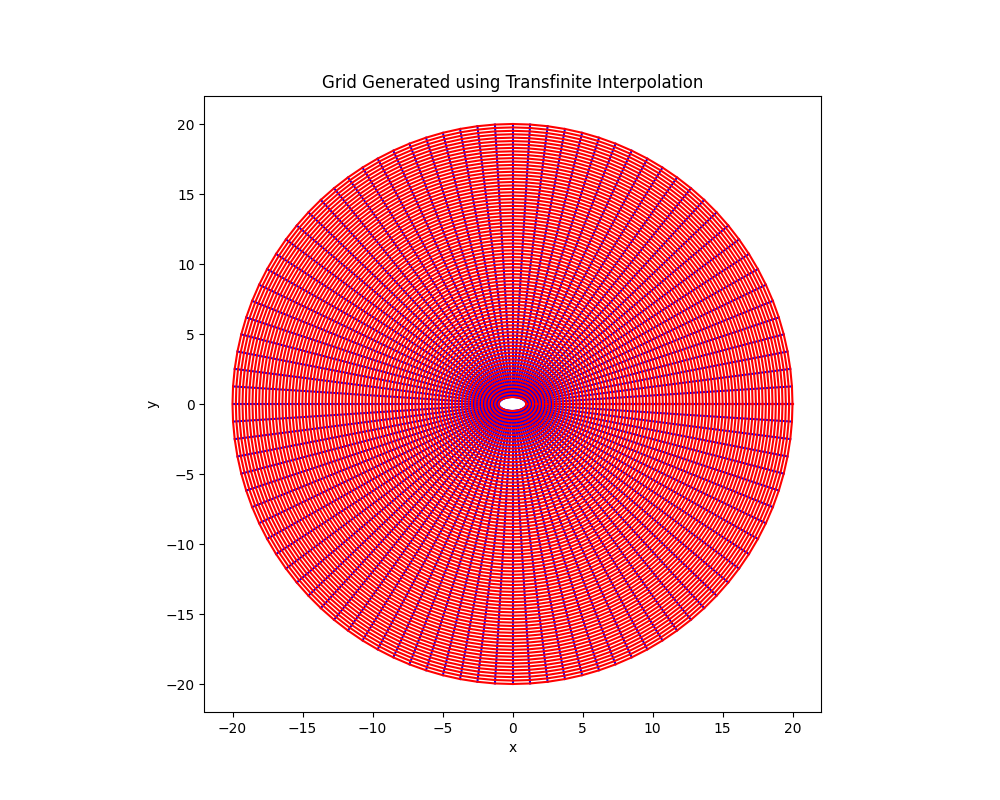
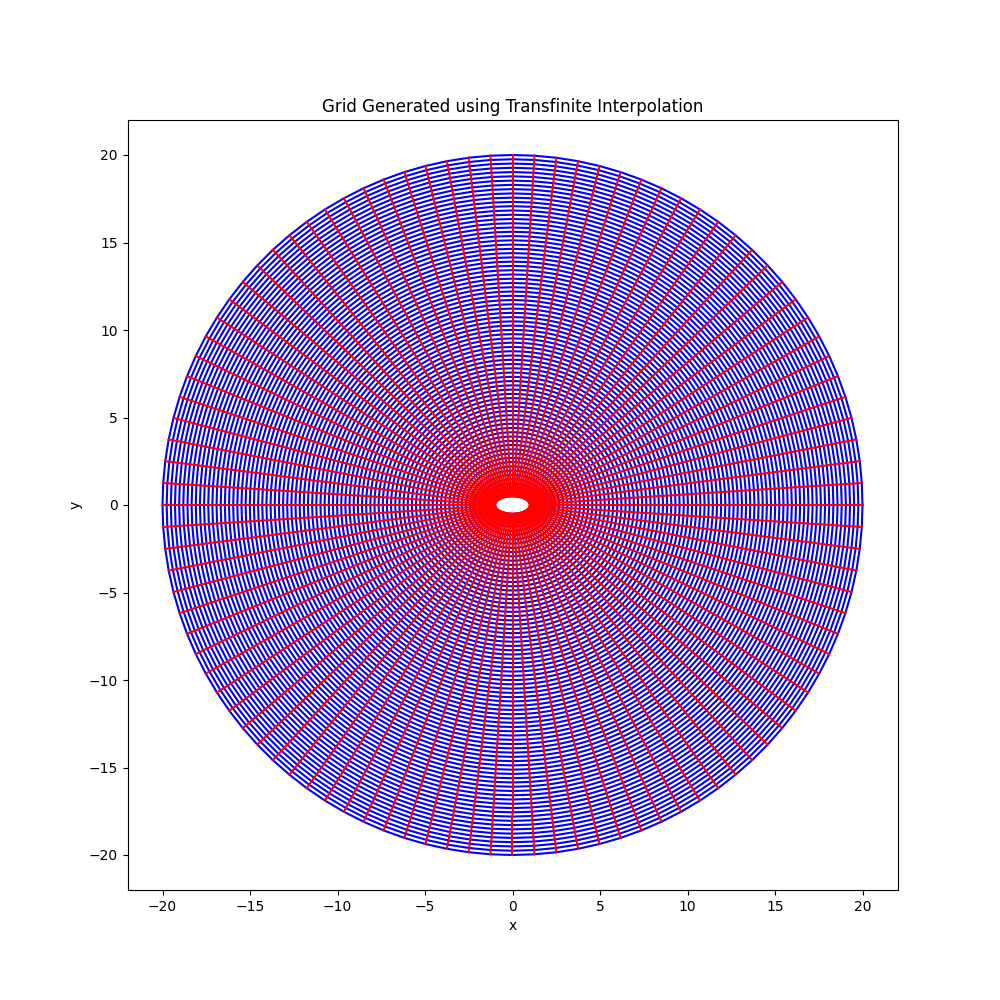
Added

diff --git a/Assignment_2/main.py b/Assignment_2/main.py
@@ -6,13 +6,34 @@ from laplace_solver import compute_velocity, solve_laplace
 # Grid parameters
 nx, ny = 101, 81  # Grid points in ξ and η directions
 a, b = 1, 0.5  # Semi-major and semi-minor axes of the ellipse
+# a, b = 1, 1  # Circle
 R_far = 20  # Far-field boundary distance
 
 # Generate grid in computational space (ξ, η)
 xi, eta, x, y = generate_grid(nx, ny, a, b, R_far)
 
+# Plot the grid
+plot_grid(x, y)
+
 # Solve Laplace equation
-phi = solve_laplace(xi, eta)
+phi = solve_laplace(xi, eta, x)
+
+# # Check boundary conditions
+# print("Far-field boundary φ values (should increase linearly with x):")
+# print(phi[:, -1])  # Last column should be ~ U_inf * x
+
+# print("Ellipse boundary φ gradient (should be ~0 for no-penetration):")
+# phi_grad = np.gradient(phi, axis=0)  # Normal derivative at the ellipse
+# print(np.max(np.abs(phi_grad[0, :])))  # Should be close to 0
+
+# Plot potential field
+plt.figure(figsize=(10, 10))
+plt.contourf(x, y, phi, 50, cmap="viridis")
+plt.title("Potential Field (φ) in Physical Domain")
+plt.xlabel("x")
+plt.ylabel("y")
+plt.colorbar(label="Potential φ")
+plt.show()
 
 # Compute velocity field
 u_xi, v_eta = compute_velocity(phi, xi, eta)
@@ -21,37 +42,73 @@ u_xi, v_eta = compute_velocity(phi, xi, eta)
 u = np.zeros_like(u_xi)
 v = np.zeros_like(v_eta)
 
-# Derivatives for transformation
-x_xi = np.gradient(x, axis=0)
-x_eta = np.gradient(x, axis=1)
-y_xi = np.gradient(y, axis=0)
-y_eta = np.gradient(y, axis=1)
+# Compute derivatives using central differences
+x_xi = np.gradient(x, axis=0, edge_order=2)
+x_eta = np.gradient(x, axis=1, edge_order=2)
+y_xi = np.gradient(y, axis=0, edge_order=2)
+y_eta = np.gradient(y, axis=1, edge_order=2)
 
-# Apply the chain rule for transformation
-for i in range(1, nx - 1):  # Avoid boundaries
-    for j in range(1, ny - 1):  # Avoid boundaries
-        J = x_xi[i, j] * y_eta[i, j] - x_eta[i, j] * y_xi[i, j]  # Jacobian determinant
-        if J != 0:
-            u[i, j] = (u_xi[i, j] * y_eta[i, j] - v_eta[i, j] * y_xi[i, j]) / J
-            v[i, j] = (-u_xi[i, j] * x_eta[i, j] + v_eta[i, j] * x_xi[i, j]) / J
+# Compute the Jacobian determinant
+J = x_xi * y_eta - x_eta * y_xi  # Jacobian determinant
 
-# Plot the grid
-plot_grid(x, y)
+# Avoid division by zero in transformation
+valid_indices = J != 0
+u[valid_indices] = (u_xi[valid_indices] * y_eta[valid_indices] - v_eta[valid_indices] * y_xi[valid_indices]) / J[valid_indices]
+v[valid_indices] = (-u_xi[valid_indices] * x_eta[valid_indices] + v_eta[valid_indices] * x_xi[valid_indices]) / J[valid_indices]
 
-# Potential field (φ) in physical domain
+# print("Jacobian determinant (min, max):", np.min(J), np.max(J))
+
+# Plot velocity potential derivatives
+plt.figure(figsize=(12, 5))
 plt.subplot(1, 2, 1)
-cp = plt.contourf(x, y, phi, 50, cmap="viridis")
-plt.colorbar(cp)
-plt.title("Potential Field (φ) in Physical Domain")
-plt.xlabel("x")
-plt.ylabel("y")
+plt.contourf(x, y, np.gradient(phi, axis=0), cmap="coolwarm")
+plt.colorbar()
+plt.title("∂φ/∂x")
+
+plt.subplot(1, 2, 2)
+plt.contourf(x, y, np.gradient(phi, axis=1), cmap="coolwarm")
+plt.colorbar()
+plt.title("∂φ/∂y")
+plt.savefig("potential_derivatives.png")
+plt.show()
 
 # Velocity field (u, v) in physical domain
-plt.subplot(1, 2, 2)
-plt.quiver(x, y, u, v, scale=10, color="red")
+plt.figure(figsize=(10, 10))
+plt.quiver(x, y, u, v, color="red")
 plt.title("Velocity Field (u, v) in Physical Domain")
 plt.xlabel("x")
 plt.ylabel("y")
-
-plt.tight_layout()
+plt.savefig("velocity_field.png")
 plt.show()
+
+# Velocity magnitude
+plt.figure(figsize=(10, 10))
+u_mag = np.sqrt(u**2 + v**2)
+plt.contourf(x, y, u_mag, cmap="coolwarm")
+plt.colorbar()
+plt.title("Velocity Magnitude")
+plt.xlabel("x")
+plt.ylabel("y")
+plt.savefig("velocity_magnitude.png")
+plt.show()
+
+# Pressure field (p) in physical domain
+p = 1 - u_mag**2
+plt.figure(figsize=(10, 10))
+plt.contourf(x, y, p, cmap="coolwarm")
+plt.colorbar()
+plt.title("Pressure Field (p) in Physical Domain")
+plt.xlabel("x")
+plt.ylabel("y")
+plt.xlim(-2, 2)
+plt.ylim(-2, 2)
+plt.savefig("pressure_field.png")
+plt.show()
+
+# plt.figure(figsize=(10, 8))
+# plt.streamplot(x, y, u, v, density=1.5, linewidth=0.7, arrowsize=1.2)
+# plt.xlabel("x")
+# plt.ylabel("y")
+# plt.title("Streamlines")
+# plt.gca().set_aspect("equal")
+# plt.show()

diff --git a/Assignment_2/grid_generation.py b/Assignment_2/grid_generation.py
@@ -12,30 +12,30 @@ def generate_grid(num_xi, num_eta, a, b, R_far):
         b (float): Semi-minor axis of the ellipse.
         R_far (float): Radius for the far-field boundary.
     Returns:
+        xi (ndarray): Computational grid (ξ-coordinates, normalized 0 to 1).
+        eta (ndarray): Computational grid (η-coordinates, normalized 0 to 1).
         x (ndarray): Grid point x-coordinates.
         y (ndarray): Grid point y-coordinates.
     """
-    xi = np.linspace(0, 1, num_xi)
-    eta = np.linspace(0, 1, num_eta)
+    xi = np.linspace(0, 1, num_xi)  # Computational domain in ξ-direction
+    eta = np.linspace(0, 1, num_eta)  # Computational domain in η-direction
 
-    x = np.zeros((num_eta, num_xi))
-    y = np.zeros((num_eta, num_xi))
+    XI, ETA = np.meshgrid(xi, eta)  # 2D computational coordinates
 
-    for i in range(num_eta):
-        for j in range(num_xi):
-            # Parametric equations for the ellipse boundary
-            x_inner = a * np.cos(2 * np.pi * xi[j])  # Should return a scalar
-            y_inner = b * np.sin(2 * np.pi * xi[j])  # Should return a scalar
+    # Generate theta values for the ellipse boundary
+    theta = np.linspace(0, 2 * np.pi, num_xi)
 
-            x_outer = R_far * np.cos(2 * np.pi * xi[j])  # Should return a scalar
-            y_outer = R_far * np.sin(2 * np.pi * xi[j])  # Should return a scalar
+    # Inner and outer boundary points
+    x_inner = a * np.cos(theta)
+    y_inner = b * np.sin(theta)
+    x_outer = R_far * np.cos(theta)
+    y_outer = R_far * np.sin(theta)
 
-            # Transfinite interpolation
-            x[i, j] = (1 - eta[i]) * x_inner + eta[i] * x_outer
-            y[i, j] = (1 - eta[i]) * y_inner + eta[i] * y_outer
+    # Transfinite Interpolation (Vectorized)
+    x = (1 - ETA) * x_inner[np.newaxis, :] + ETA * x_outer[np.newaxis, :]
+    y = (1 - ETA) * y_inner[np.newaxis, :] + ETA * y_outer[np.newaxis, :]
 
-    xi, eta = np.meshgrid(xi, eta)
-    return xi, eta, x, y
+    return XI, ETA, x, y
 
 
 def plot_grid(x, y):
@@ -45,7 +45,7 @@ def plot_grid(x, y):
         x (ndarray): x-coordinates of the grid.
         y (ndarray): y-coordinates of the grid.
     """
-    plt.figure(figsize=(10, 8))
+    plt.figure(figsize=(10, 10))
     for i in range(x.shape[0]):
         plt.plot(x[i, :], y[i, :], "b")  # ξ-direction
     for j in range(x.shape[1]):
@@ -58,10 +58,15 @@ def plot_grid(x, y):
     plt.show()
 
 
-# Example usage (to be removed in final integration)
+# Example usage
 # if __name__ == "__main__":
-#   nx, ny = 101, 81
-#  a, b = 1, 0.5
-# R_far = 20
-# x, y = generate_grid(nx, ny, a, b, R_far)
-# plot_grid(x, y)
+#     nx, ny = 101, 81  # Grid resolution
+#     a, b = 1, 0.5  # Ellipse parameters
+#     R_far = 20  # Far-field boundary
+
+#     xi, eta, x, y = generate_grid(nx, ny, a, b, R_far)
+#     plot_grid(x, y)
+
+#     # Example: Mapping from computational to physical coordinates
+#     i, j = 40, 50  # Sample computational index
+#     print(f"At (xi, eta) = ({xi[i, j]:.3f}, {eta[i, j]:.3f}), physical coordinates are (x, y) = ({x[i, j]:.3f}, {y[i, j]:.3f})")

diff --git a/Assignment_2/laplace_solver.py b/Assignment_2/laplace_solver.py
@@ -1,7 +1,7 @@
 import numpy as np
 
 
-def solve_laplace(xi, eta, U_inf=1.0, tol=1e-5, max_iter=10000):
+def solve_laplace(xi, eta, x, U_inf=1.0, tol=1e-5, max_iter=10000):
     """
     Solves Laplace's equation in computational (ξ, η) space using Gauss-Seidel method.
     Args:
@@ -15,9 +15,10 @@ def solve_laplace(xi, eta, U_inf=1.0, tol=1e-5, max_iter=10000):
     """
     nx, ny = xi.shape
     phi = np.zeros((nx, ny))
+    phi[:, :] = U_inf * x[:, :]  # Far-field boundary (η = 1)
 
     # Dirichlet BC: Far-field potential φ = U_inf * ξ
-    phi[:, -1] = U_inf * xi[:, -1]  # Far-field boundary (η = 1)
+    phi[:, -1] = U_inf * x[:, -1]  # Far-field boundary (η = 1)
 
     # Iterative solver
     for iteration in range(max_iter):
@@ -29,8 +30,12 @@ def solve_laplace(xi, eta, U_inf=1.0, tol=1e-5, max_iter=10000):
                     phi[i + 1, j] + phi[i - 1, j] + phi[i, j + 1] + phi[i, j - 1]
                 )
 
-        # Neumann BC: No-penetration (∂φ/∂n = 0) at the ellipse boundary
-        phi[0, :] = phi[1, :]  # Bottom boundary (ellipse)
+        # Improved Neumann BC: No-penetration (∂φ/∂η = 0) at the ellipse boundary
+        phi[0, :] = phi[1, :]  # Ellipse boundary (η = 0)
+
+        # Debugging print every 1000 iterations
+        if iteration % 1000 == 0:
+            print(f"Iteration {iteration}: max change = {np.max(np.abs(phi - phi_old))}")
 
         # Convergence check
         if np.max(np.abs(phi - phi_old)) < tol:
@@ -40,6 +45,7 @@ def solve_laplace(xi, eta, U_inf=1.0, tol=1e-5, max_iter=10000):
         print("Did not converge within the maximum number of iterations.")
 
     return phi
+
 
 
 def compute_velocity(phi, xi, eta):
@@ -66,15 +72,3 @@ def compute_velocity(phi, xi, eta):
     )
 
     return u, v
-
-
-# Example usage (to be removed in final integration)
-if __name__ == "__main__":
-    from grid_generation import generate_grid
-
-    nx, ny = 101, 81
-    a, b = 1, 0.5
-    R_far = 20
-    xi, eta, x, y = generate_grid(nx, ny, a, b, R_far)
-    phi = solve_laplace(xi, eta)
-    u, v = compute_velocity(phi, xi, eta)
